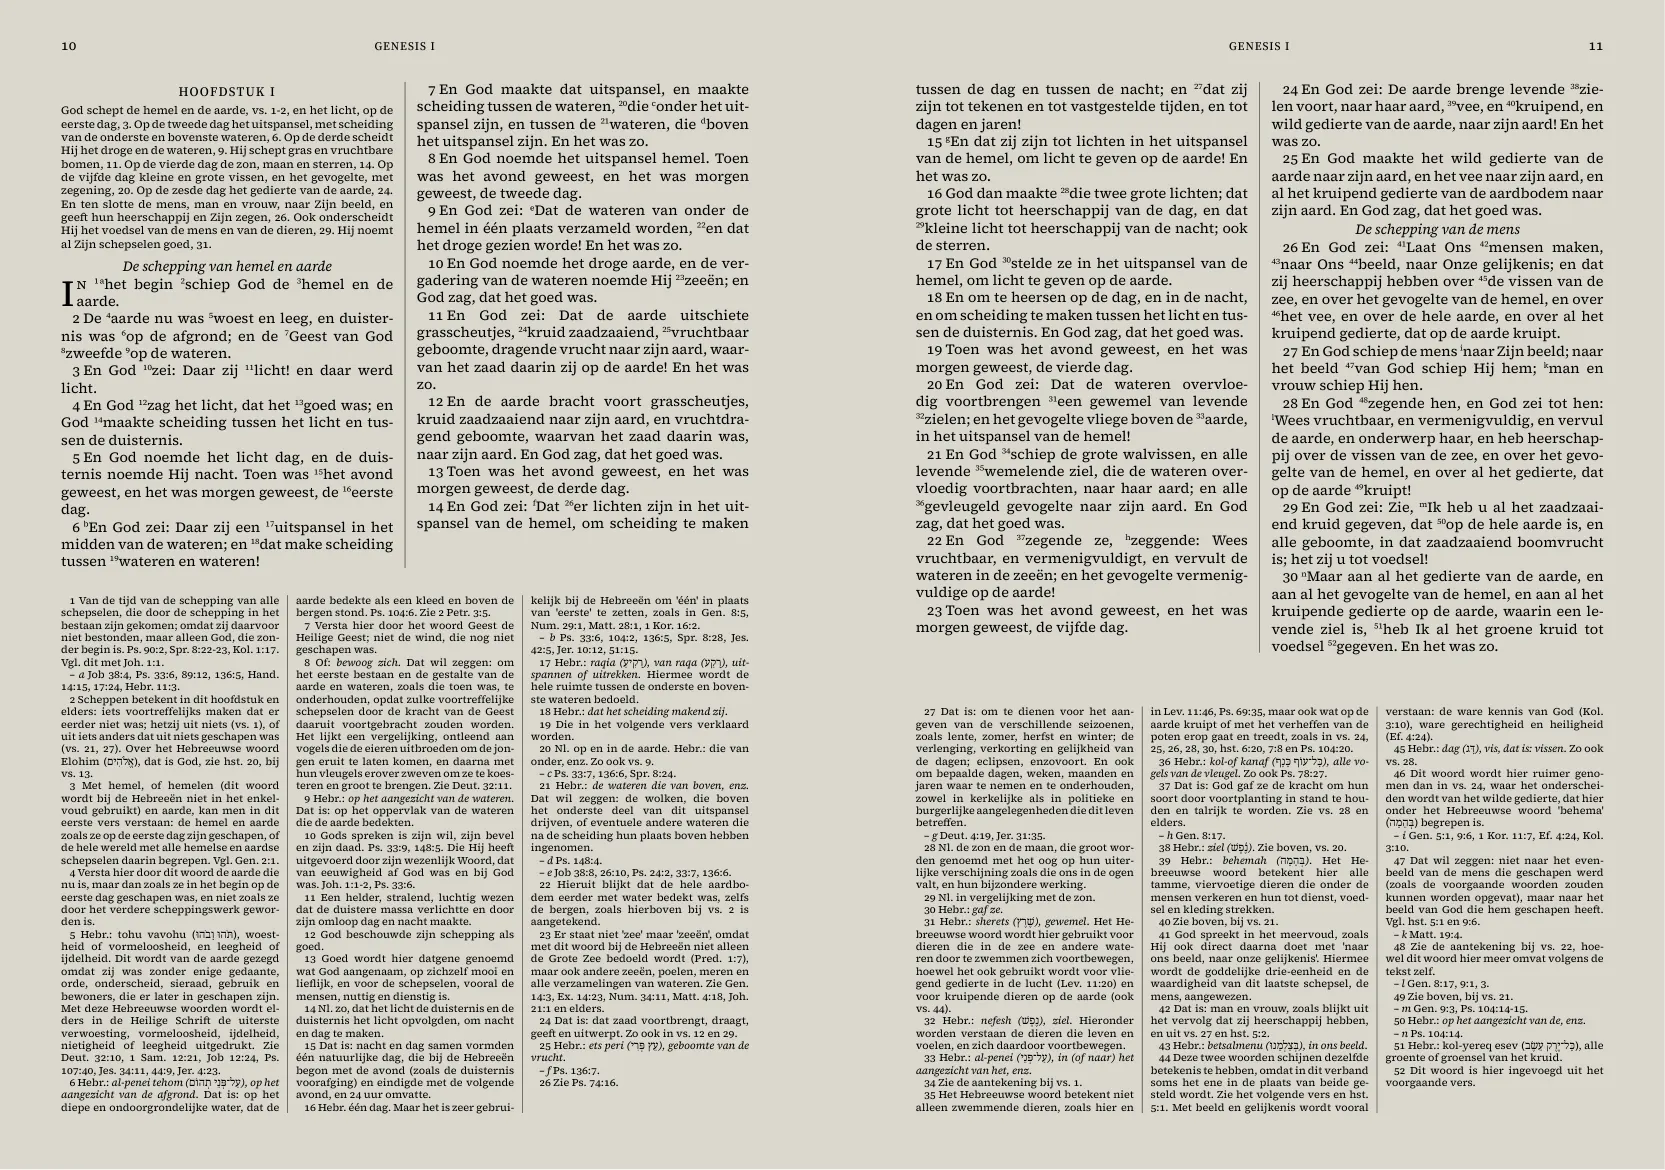
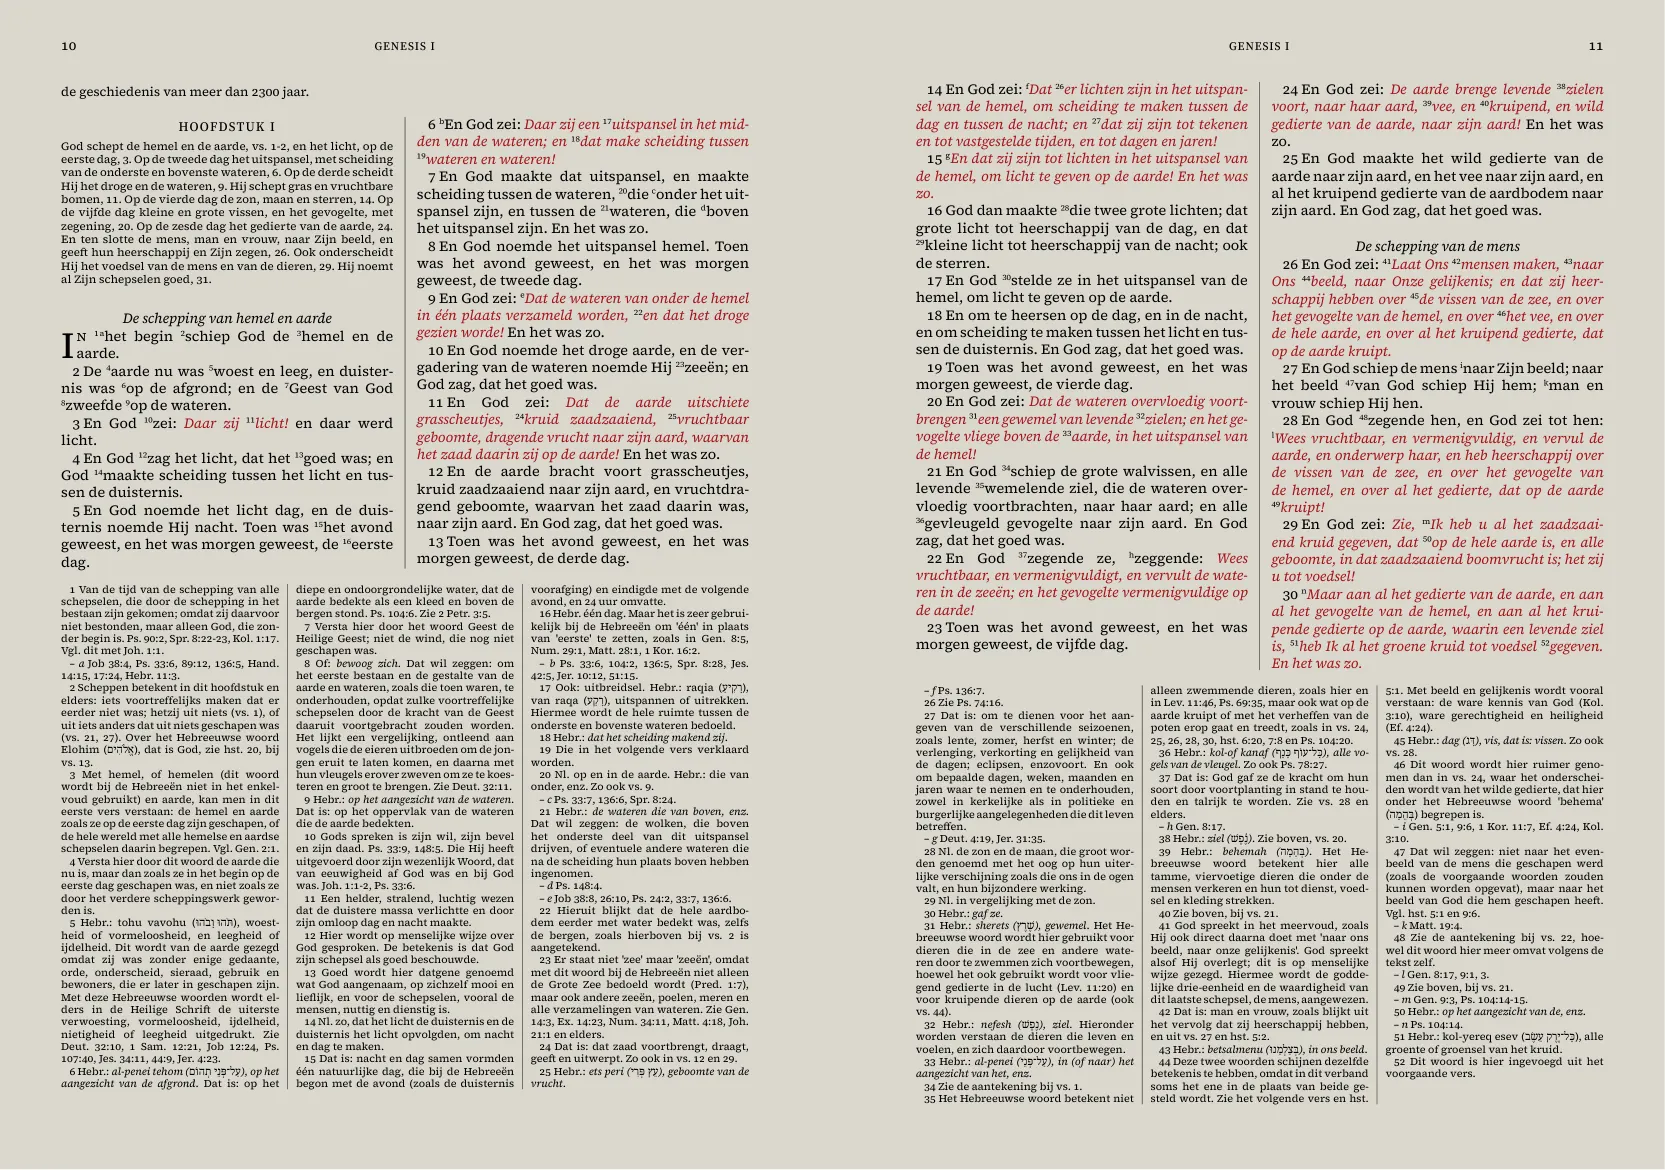
Voorbeeld kanttekeningenuitgave opnieuw, met rode woorden van God
Het voorbeeldbeeld op kanttekeningen.html dateerde van voor de rode
Godscitaten in de zetting. Het script zoekt de opening van Genesis 1 nu
via de bladwijzers en kan alleen het voorbeeld vernieuwen
(--alleen-voorbeeld), zonder de omslagen te overschrijven.

Changed region(s): [[0.0312, 0.0615, 0.4685, 0.9538], [0.5309, 0.0615, 0.9682, 0.9538]]

diff --git a/kanttekeningen.html b/kanttekeningen.html
@@ -110,7 +110,7 @@
 
         <figure class="kt-voorbeeld">
             <h2>Zo ziet het eruit</h2>
-            <img src="images/kanttekeningen/voorbeeld-genesis-1.webp?v=20261108-eenband" alt="Twee bladzijden uit Genesis 1: bijbeltekst in twee kolommen met daaronder de kanttekeningen in drie kolommen" width="1665" height="1170" loading="lazy" decoding="async">
+            <img src="images/kanttekeningen/voorbeeld-genesis-1.webp?v=20261115-rood" alt="Twee bladzijden uit Genesis 1: bijbeltekst in twee kolommen, de woorden van God in rood, met daaronder de kanttekeningen in drie kolommen" width="1665" height="1170" loading="lazy" decoding="async">
             <figcaption>De opening van Genesis 1 uit deel I.</figcaption>
         </figure>
 

diff --git a/scripts/build_kanttekeningen_omslagen.py b/scripts/build_kanttekeningen_omslagen.py
@@ -3,7 +3,7 @@
 
 Eenmalig werk: de beelden veranderen niet met de tekst en staan daarom in git.
 Vereist PyMuPDF en Pillow, die de uitrol niet nodig heeft.
-Gebruik: python scripts/build_kanttekeningen_omslagen.py map-met-gebouwde-pdfs
+Gebruik: python scripts/build_kanttekeningen_omslagen.py map-met-gebouwde-pdfs [--alleen-voorbeeld]
 """
 import io
 import sys
@@ -68,17 +68,21 @@ def voorbeeld(map_pdf, pad):
         doel = fitz.open()
         blad = doel.new_page(width=w * 2 + 8, height=h)
         blad.draw_rect(blad.rect, fill=(0.86, 0.85, 0.81), color=None)
-        blad.show_pdf_page(fitz.Rect(0, 0, w, h), d, 9)
-        blad.show_pdf_page(fitz.Rect(w + 8, 0, 2 * w + 8, h), d, 10)
+        # Eerste bladwijzer 'Hoofdstuk 1' na Genesis: daar begint de tekst met kanttekeningen.
+        links = next(blad for niveau, titel, blad in d.get_toc() if niveau == 2 and titel == 'Hoofdstuk 1') - 1
+        links -= links % 2 == 0  # een opening begint links op een even bladzijde
+        blad.show_pdf_page(fitz.Rect(0, 0, w, h), d, links)
+        blad.show_pdf_page(fitz.Rect(w + 8, 0, 2 * w + 8, h), d, links + 1)
         png = blad.get_pixmap(dpi=100).tobytes('png')
     Image.open(io.BytesIO(png)).convert('RGB').save(pad, 'WEBP', quality=78, method=6)
 
 
 def main():
     UIT.mkdir(parents=True, exist_ok=True)
-    fonts = lettertypes()
-    for deel in DELEN:
-        omslag(deel, fonts, UIT / f'deel-{deel}.webp')
+    if '--alleen-voorbeeld' not in sys.argv:
+        fonts = lettertypes()
+        for deel in DELEN:
+            omslag(deel, fonts, UIT / f'deel-{deel}.webp')
     voorbeeld(Path(sys.argv[1]), UIT / 'voorbeeld-genesis-1.webp')
 
 
